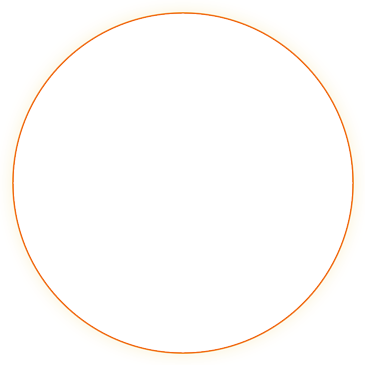
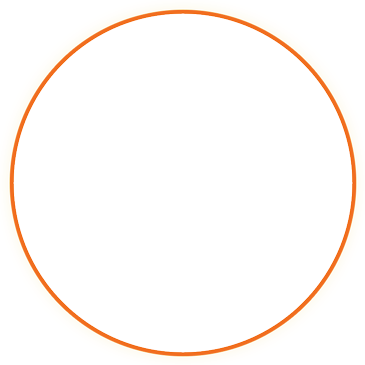
Added single, animated radar ring.

diff --git a/Vicinity/FindDeviceViewController.m b/Vicinity/FindDeviceViewController.m
@@ -20,6 +20,10 @@
     
     UIImageView *baseCircle;
     UIImageView *targetCircle;
+    
+    UIImageView *radarRing;
+    
+    NSTimer *animationTimer;
 }
 
 - (id)init
@@ -54,6 +58,7 @@
     
     
     baseCircle = [[UIImageView alloc] initWithImage:[UIImage imageNamed:@"circle.png"]];
+    baseCircle.clipsToBounds = NO;
     [EasyLayout positionView:baseCircle aboveView:bottomToolbar horizontallyCenterWithView:self.view offset:CGSizeMake(0.0f, -50.0f)];
     
     [self.view addSubview:baseCircle];
@@ -63,6 +68,9 @@
     
     [self.view addSubview:targetCircle];
     
+    radarRing = [[UIImageView alloc] initWithImage:[UIImage imageNamed:@"ring.png"]];
+    radarRing.contentMode = UIViewContentModeScaleToFill;
+    [baseCircle addSubview:radarRing];
 }
 
 - (void)viewDidAppear:(BOOL)animated
@@ -71,6 +79,42 @@
     
     [[INBeaconService singleton] startDetecting];
     [[INBeaconService singleton] addDelegate:self];
+    
+    [self animateRing:nil];
+}
+
+- (void)animateRing:(NSTimer *)timer
+{
+    
+    // pre-compute some frames for animation
+    
+    // compute start frame
+    radarRing.extSize = baseCircle.extHalfSize;
+    [EasyLayout bottomCenterView:radarRing inParentView:baseCircle offset:CGSizeMake(0.0f, -5.0f)];
+    radarRing.alpha = 1.0f;
+
+    CGRect startFrame = radarRing.frame;
+    
+    // compute end frame
+    radarRing.extSize = CGSizeMake(300.0f, 300.0f);
+    [EasyLayout bottomCenterView:radarRing inParentView:baseCircle offset:CGSizeZero];
+    CGRect endFrame = radarRing.frame;
+    
+    
+    // apply position
+    radarRing.frame = startFrame;
+    
+    // animate up and out
+    [UIView animateWithDuration:1.5f animations:^{
+        radarRing.frame = endFrame;
+        radarRing.alpha = 0.0f;
+    } completion:^(BOOL finished) {
+        
+        
+        
+        animationTimer = [NSTimer scheduledTimerWithTimeInterval:0.5f target:self selector:@selector(animateRing:)
+                                                        userInfo:nil repeats:NO];
+    }];
 }
 
 #pragma mark - INBeaconServiceDelegate
